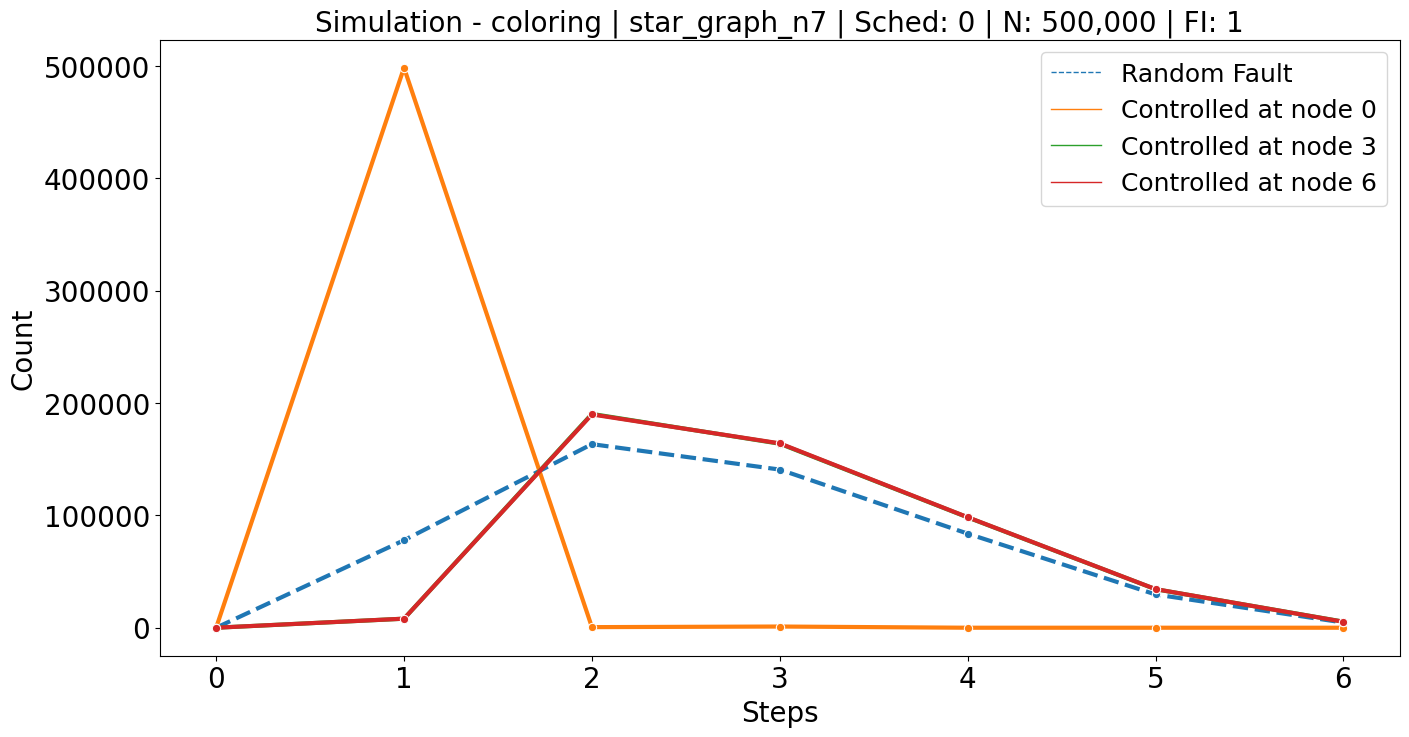
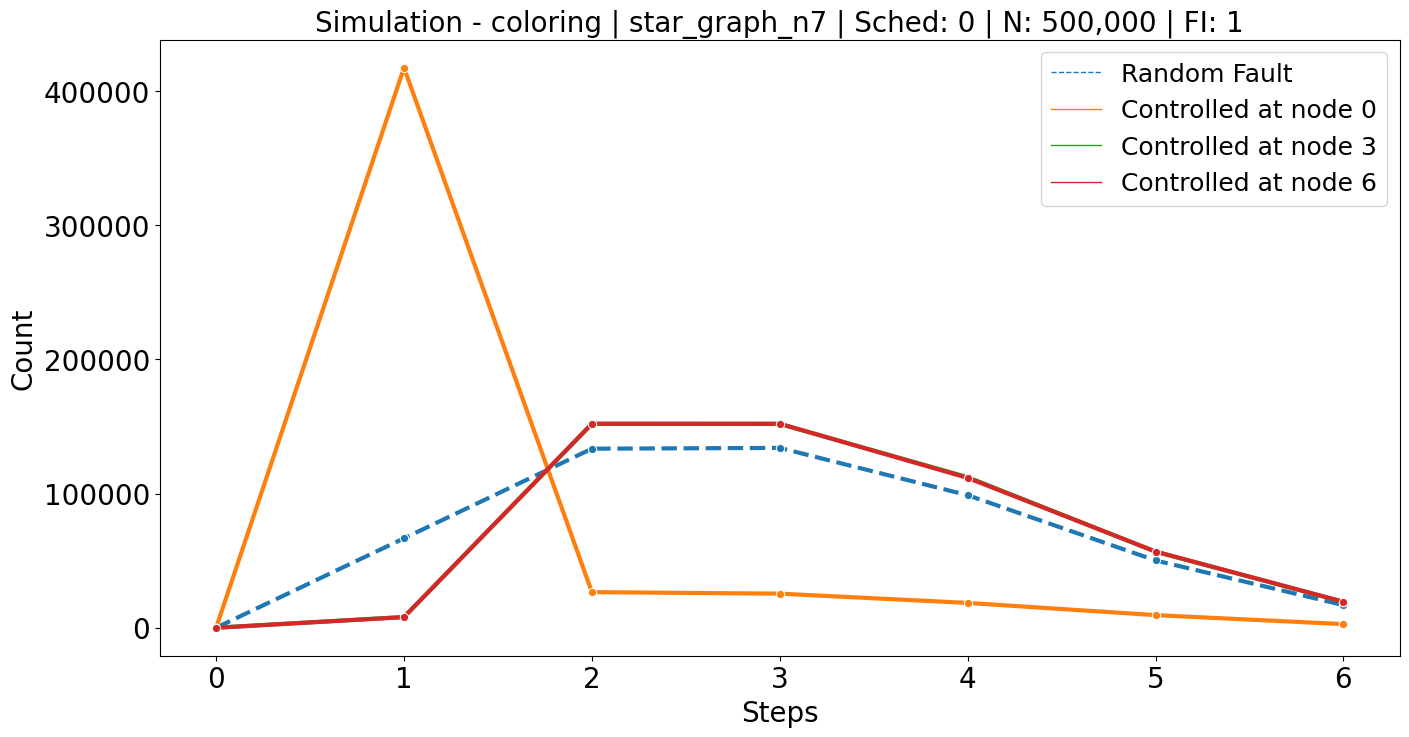
refactor

diff --git a/simulations/simulation.py b/simulations/simulation.py
@@ -131,17 +131,17 @@ class SimulationMixin:
 
     def inject_fault_at_node(self, state, process):
         """Amit controlled version where given node has highest possibility of the fault."""
-        """need rework specially for programs like maximal matching where a fault should follow allowed perturbation"""
         faulty_actions = []
         indx = self.config_to_indx(state)
-        possible_transition_values = [
-            i[1] for i in self.possible_perturbed_state_frm(indx)
+        possible_transition_indexes = [
+            i[1] for i in self.possible_perturbed_state_frm(indx) if i[0] == process
         ]
-        transition_value = random.choice(
-            list(set(possible_transition_values) - {state[process]})
-        )  # the value of the node cannot remain same for the transition
+        if not possible_transition_indexes:
+            return faulty_actions
+        transition_indx = random.choice(possible_transition_indexes)
+        transition_state = self.indx_to_config(transition_indx)
         faulty_actions.append(
-            Action(Action.UPDATE, process, [state[process], transition_value])
+            Action(Action.UPDATE, process, [state[process], transition_state[process]])
         )
         return faulty_actions
 
@@ -168,15 +168,16 @@ class SimulationMixin:
             )
 
             indx = self.config_to_indx(state)
-            possible_transition_values = [
-                i[1] for i in self.possible_perturbed_state_frm(indx)
-            ]
             for p in randomly_selected_processes:
-                transition_value = random.choice(
-                    list(set(possible_transition_values) - {state[p]})
-                )
+                possible_transition_indexes = [
+                    i[1] for i in self.possible_perturbed_state_frm(indx) if i[0] == p
+                ]
+                if not possible_transition_indexes:
+                    continue
+                transition_indx = random.choice(possible_transition_indexes)
+                transition_state = self.indx_to_config(transition_indx)
                 faulty_actions.append(
-                    Action(Action.UPDATE, p, [state[p], transition_value])
+                    Action(Action.UPDATE, p, [state[p], transition_state[p]])
                 )
 
         return faulty_actions
@@ -197,15 +198,17 @@ class SimulationMixin:
 
             logger.debug("Selected random nodes %s.", randomly_selected_nodes)
             indx = self.config_to_indx(state)
-            possible_transition_values = [
-                i[1] for i in self.possible_perturbed_state_frm(indx)
-            ]
+
             for p in randomly_selected_nodes:
-                transition_value = random.choice(
-                    list(set(possible_transition_values) - {state[p]})
-                )
+                possible_transition_indexes = [
+                    i[1] for i in self.possible_perturbed_state_frm(indx) if i[0] == p
+                ]
+                if not possible_transition_indexes:
+                    continue
+                transition_indx = random.choice(possible_transition_indexes)
+                transition_state = self.indx_to_config(transition_indx)
                 faulty_actions.append(
-                    Action(Action.UPDATE, p, [state[p], transition_value])
+                    Action(Action.UPDATE, p, [state[p], transition_state[p]])
                 )
 
         return faulty_actions
